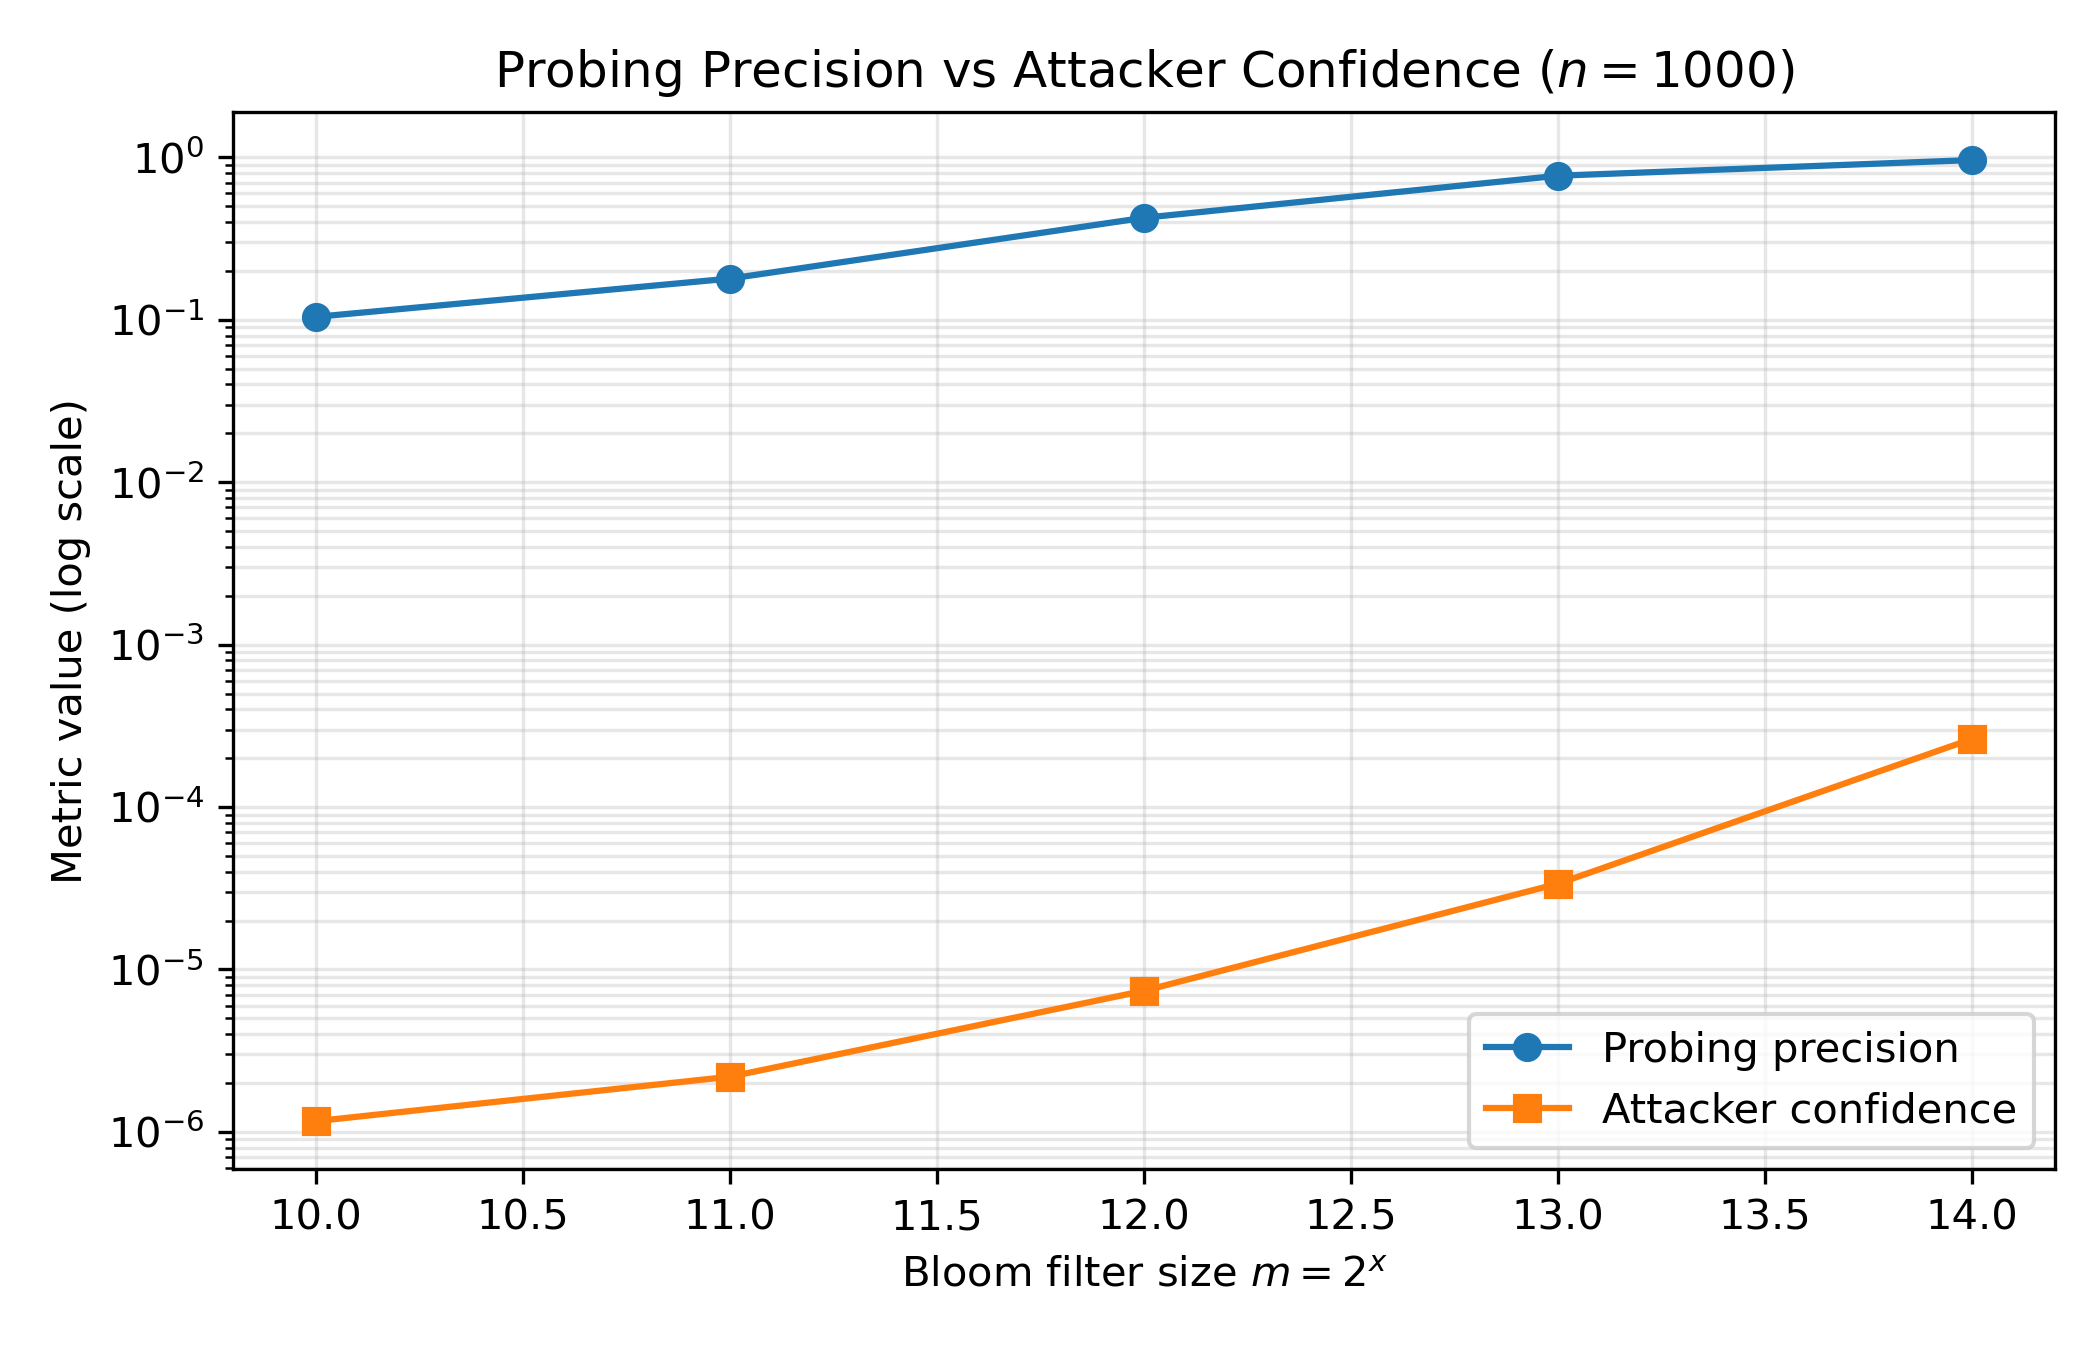
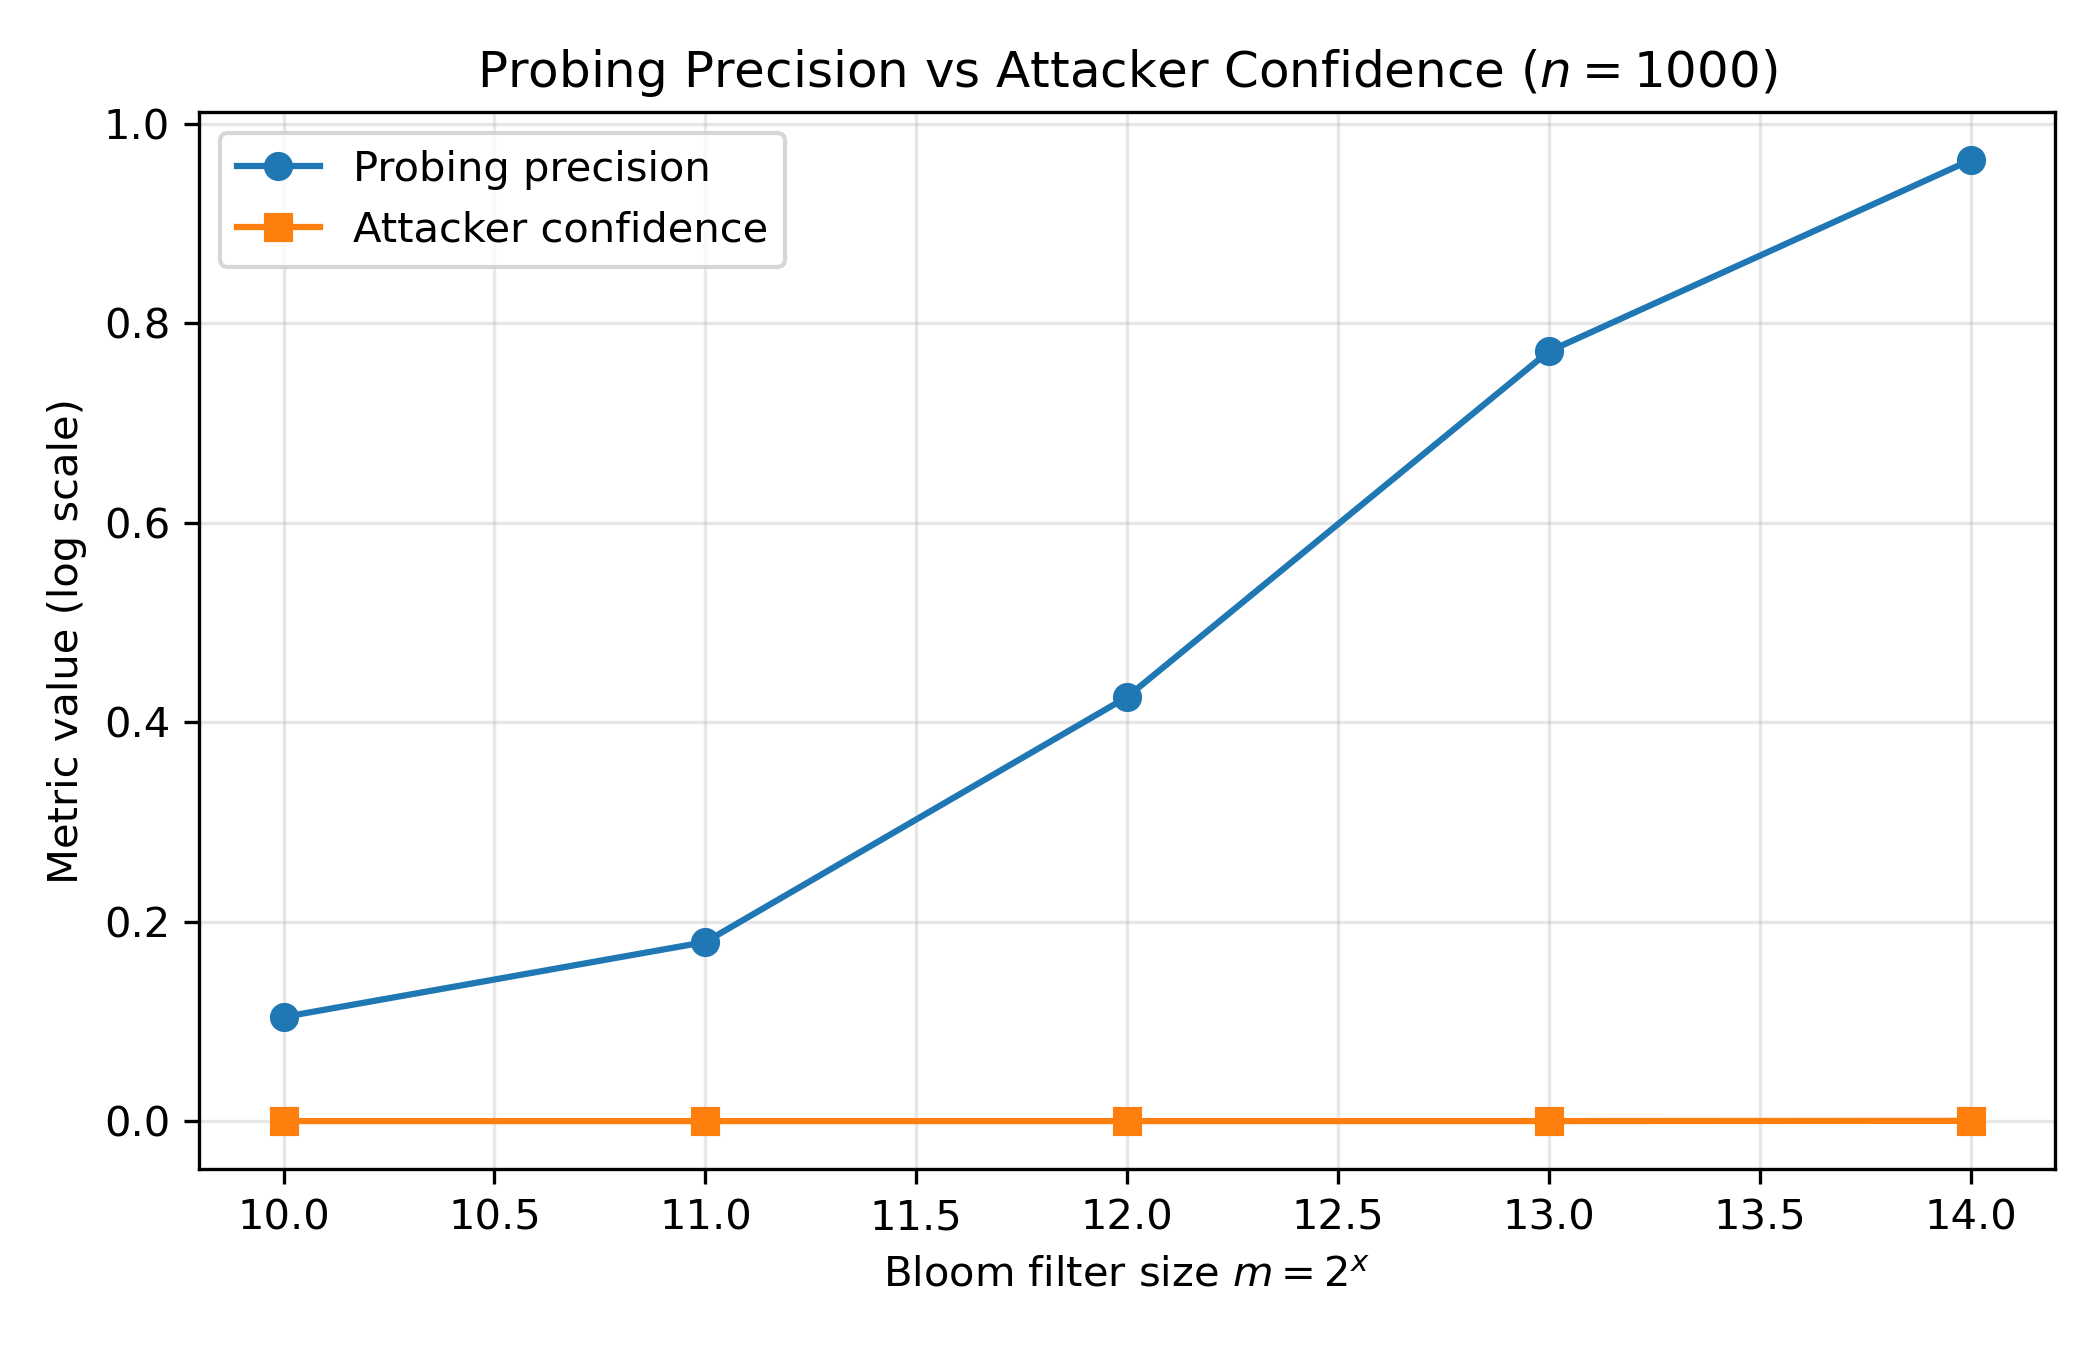
testing new plot

diff --git a/updated_plots.py b/updated_plots.py
@@ -92,7 +92,6 @@ plt.show()
 plt.figure(figsize=(7, 4.5))
 plt.plot(m_data["m_exp"], m_data["probing_precision"], marker="o", label="Probing precision")
 plt.plot(m_data["m_exp"], m_data["attacker_confidence"], marker="s", label="Attacker confidence")
-plt.yscale("log")
 plt.xlabel(r"Bloom filter size $m = 2^x$")
 plt.ylabel("Metric value (log scale)")
 plt.title(r"Probing Precision vs Attacker Confidence ($n=1000$)")
@@ -109,7 +108,6 @@ plt.show()
 plt.figure(figsize=(7, 4.5))
 plt.plot(n_data["n"], n_data["probing_precision"], marker="o", label="Probing precision")
 plt.plot(n_data["n"], n_data["attacker_confidence"], marker="s", label="Attacker confidence")
-plt.yscale("log")
 plt.xlabel(r"Number of inserted flows $n$")
 plt.ylabel("Metric value (log scale)")
 plt.title(r"Probing Precision vs Attacker Confidence ($m=2^{12}$)")
